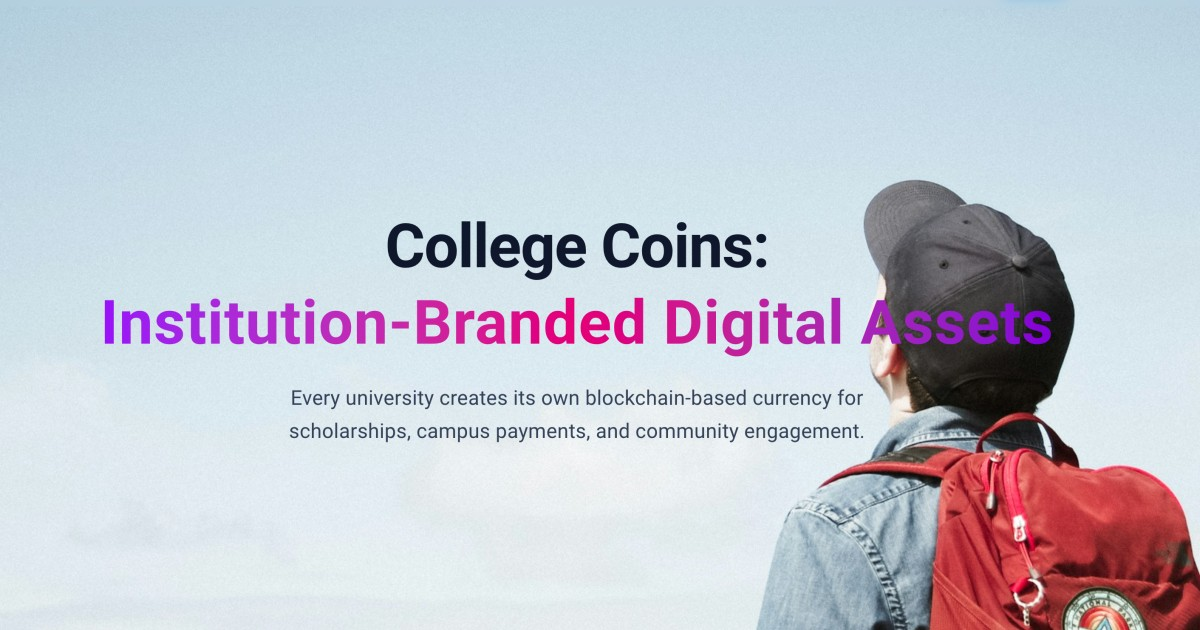
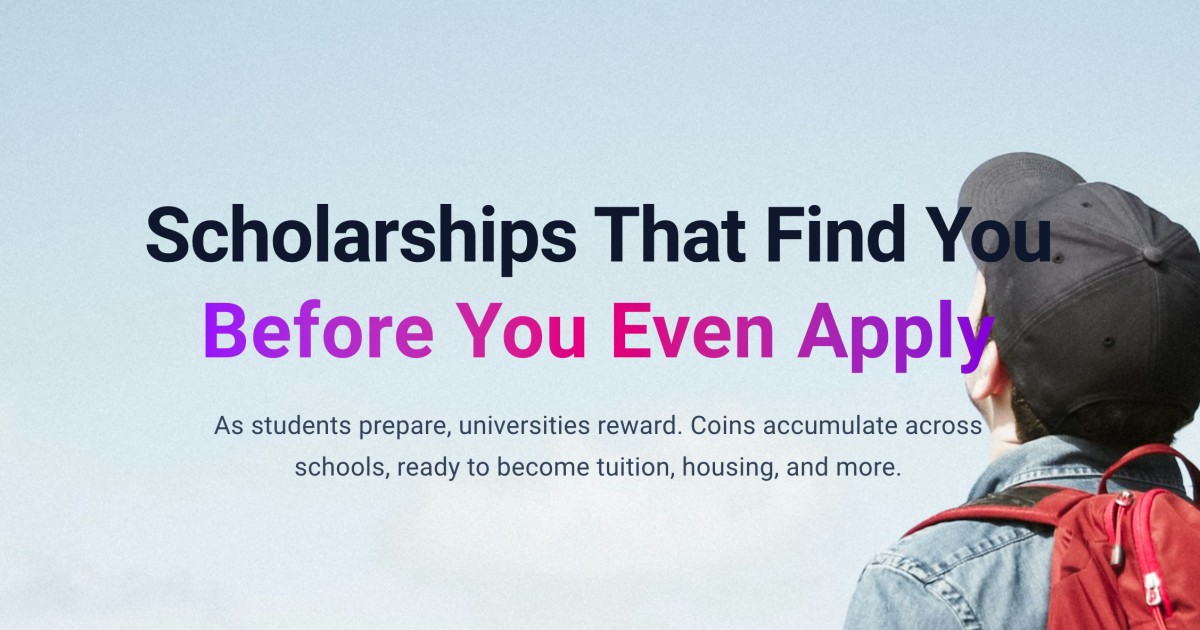
feat: Update `og_college_coin.jpg` and revise `collegeCoins` hero text in English translation.

Changed region(s): [[0.0617, 0.2413, 1.0, 1.0]]

diff --git a/client/src/pages/public/CollegeCoins.jsx b/client/src/pages/public/CollegeCoins.jsx
@@ -30,11 +30,24 @@ const CollegeCoins = () => {
         
         {/* Content */}
         <div className="relative z-10 container mx-auto px-4 text-center text-slate-900">
+          <motion.div
+            initial={{ opacity: 0, y: 20 }}
+            animate={{ opacity: 1, y: 0 }}
+            transition={{ duration: 0.6 }}
+            className="mb-6"
+          >
+            <span className="inline-flex items-center gap-2 px-4 py-2 bg-white/80 backdrop-blur-sm rounded-full text-purple-700 text-sm font-semibold border border-purple-200 shadow-sm">
+              <svg className="w-4 h-4" fill="currentColor" viewBox="0 0 20 20">
+                <path d="M10 18a8 8 0 100-16 8 8 0 000 16zM8.736 6.979C9.208 6.193 9.696 6 10 6c.304 0 .792.193 1.264.979a1 1 0 001.715-1.029C12.279 4.784 11.232 4 10 4s-2.279.784-2.979 1.95c-.285.475-.507 1-.67 1.55H6a1 1 0 000 2h.013a9.358 9.358 0 000 1H6a1 1 0 100 2h.351c.163.55.385 1.075.67 1.55C7.721 15.216 8.768 16 10 16s2.279-.784 2.979-1.95a1 1 0 10-1.715-1.029c-.472.786-.96.979-1.264.979-.304 0-.792-.193-1.264-.979a4.265 4.265 0 01-.264-.521H10a1 1 0 100-2H8.017a7.36 7.36 0 010-1H10a1 1 0 100-2H8.472c.08-.185.167-.36.264-.521z"/>
+              </svg>
+              {t('collegeCoins.hero.chip')}
+            </span>
+          </motion.div>
           <motion.h1 
             className="text-5xl md:text-7xl font-bold mb-6 leading-tight"
             initial={{ opacity: 0, y: 30 }}
             animate={{ opacity: 1, y: 0 }}
-            transition={{ duration: 0.8 }}
+            transition={{ duration: 0.8, delay: 0.1 }}
           >
             {t('collegeCoins.hero.title')} <br />
             <span className="bg-gradient-to-r from-purple-600 via-pink-600 to-purple-700 bg-clip-text text-transparent">
